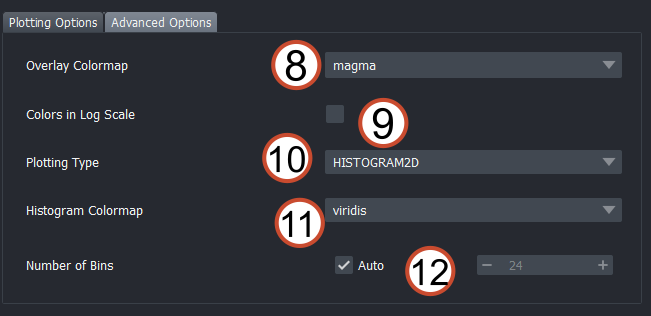
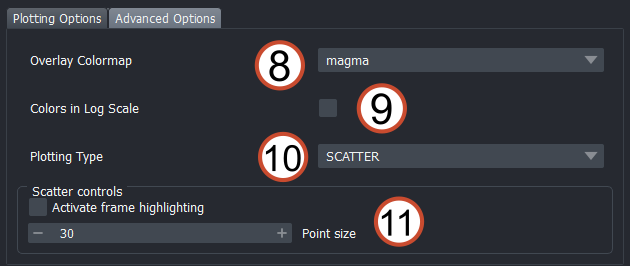
update docs

diff --git a/docs/usage/plotter_widget.md b/docs/usage/plotter_widget.md
@@ -25,13 +25,23 @@ The core functionality of the plugin is available to you directly upon opening i
 
 ![Advanced settings](./imgs/plotter_overview3_annotated.png)
 
+![Advanced settings](./imgs/plotter_overview4_annotated.png)
+
 Under the `Advanced Options` tab, you have access to some more customization options for the visualization:
 
 8. Change the colormap for the chosen overlay color. If a layer is colored by a non-categorical feature, this determines the colormap for the depiction. Only enabled if a non-categorical feature is selected in the `Hue` dropdown.
 9. Apply a log-scale to the chosen feature
 10. Switch plot type between `SCATTER` and `HISTOGRAM2D`
-11. Colorap for 2D histogram (only enabled if `HISTOGRAM2D` is selected in 10.)
-12. Change the size of the bins (only enabled if `HISTOGRAM2D` is selected in 10.)
+
+Depending on which plot type is selected, some additional options are available:
+
+11. For `SCATTER` plot: 
+    - Enable the time-frame highlighting. This make give out-of-frame points a different alpha and size, making them appear slightly more transparent and smaller. This is useful to visualize the current time frame in a time-series dataset. To make use of this, enusre that the measurements in the layer's `layer.features` dataframe contain a `frame` column, which is used to determine the current time frame.
+    - Change the size of the points in the scatter plot. This can be useful for better visibility of the points in the plot in case there are a large number of points.
+
+12. For `HISTOGRAM2D` plot:
+    - Change the size of the bins (only enabled if `HISTOGRAM2D` is selected in 10.) Can be set to auto or a manual bin range can be set.
+    - A different colormap for the histogram can be selected.
 
 ## Visualizing layer features
 
